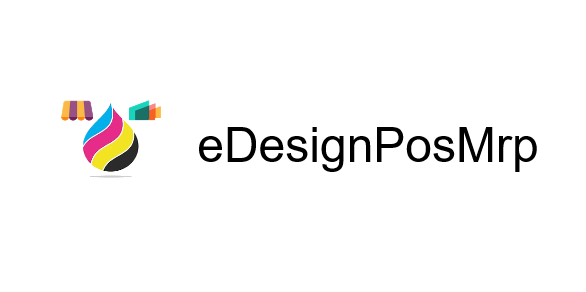
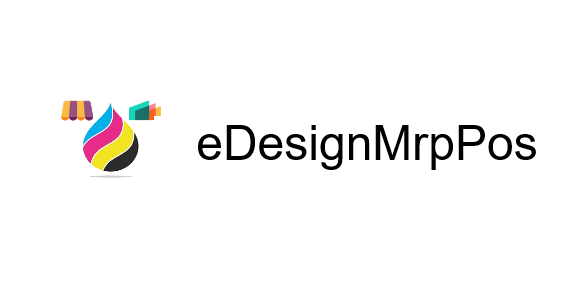
[UPD] README

Changed region(s): [[0.3379, 0.4315, 0.9215, 0.5856]]

diff --git a/e_design_mrp_pos/static/description/index.html b/e_design_mrp_pos/static/description/index.html
@@ -3,11 +3,11 @@
         <div class="row align-items-center p-3">
             <div class="col-md-8">
                 <h1 class="display-4 fw-bold mb-3 text-white">
-                    <img src="icon.png" alt="ePosMrpDesign" class="img-fluid  rounded-circle me-3 bg-light" style="width: 60px; height: 60px; background: white; padding: 8px;">
-                    ePosMrpDesign
+                    <img src="icon.png" alt="eDesignMrpPos" class="img-fluid  rounded-circle me-3 bg-light" style="width: 60px; height: 60px; background: white; padding: 8px;">
+                    eDesignMrpPos
                 </h1>
                 <p class="lead mb-4">
-                    Ensures design information flows automatically from POS sales to manufacturing orders, giving production teams visual references.
+                    Ensures design information flows automatically from POS sales to manufacturing orders, giving production teams visual references. Depends on external e-POS-MRP module
                 </p>
             </div>
             <div class="col-md-4 text-center">
@@ -28,16 +28,7 @@
                         <div class="card p-0">
                             <div class="row p-3">
                                 <h3 class="card-title fw-bold">POS, MRP & Design Integration</h3>
-                                <p class="card-text small text-muted">Link designs directly from the product template view.</p>
-                            </div>
-                            <hr class="mt-0"/>
-                            <div class="row justify-content-start p-1">
-                                <div class="col-xl-6">
-                                    <img src="assets/screenshots/1.png" class="card-img-top" alt="Product Design Link">
-                                </div>
-                                <div class="col-xl-6">
-                                    <img src="assets/screenshots/1-1.png" class="card-img-top" alt="Design App">
-                                </div>
+                                <p class="card-text small text-muted">Link designs directly from the POS order line to manofacturing view.</p>
                             </div>
                         </div>
                     </div>
@@ -88,7 +79,7 @@
 
 <footer class="bg-primary py-4 mt-5">
     <div class="container text-center">
-        <a href="https://github.com/acevedoesteban999/eAddons" class="btn btn-light btn-sm me-2">
+        <a href="https://github.com/acevedoesteban999/eAddons/e_design_mrp_pos" class="btn btn-light btn-sm me-2">
             Documantation
         </a>
     </div>

diff --git a/e_design_mrp_pos/__manifest__.py b/e_design_mrp_pos/__manifest__.py
@@ -5,15 +5,13 @@
     'summary': """Integration POS-MRP with eDesign""",
     'description':"""
                     It allows you to view the designs of the product 
-                    to be manufactured in the manufacturing orders.
+                    to be manufactured from POS in the manufacturing orders.
                 """,
     'author': 'acevedoesteban999@gmail.com',
-    'website': 'https://github.com/acevedoesteban999/eAddons/blob/18.0/e_design_pos_mrp',
+    'website': 'https://github.com/acevedoesteban999/eAddons/blob/18.0/e_design_mrp_pos',
     'category': 'Customizations',
     'depends': ['e_design_mrp','e_design_pos','e_pos_mrp'],
-    "data": [
-        
-    ],
+    "data": [ ],
     'images': [
         'static/description/banner.png',
     ],

diff --git a/e_design_mrp_pos/README.md b/e_design_mrp_pos/README.md
@@ -1,15 +1,3 @@
 # ePosMrpDesign
 #### POS, MRP & Design Integration
-This module ensures design information flows automatically from POS sales to manufacturing orders, giving production teams visual references.
-
-**Design displayed on Manufacturing Order**
-![IAMGE](static/description/assets/screenshots/1.png)
-
-![IMAGE](static/description/assets/screenshots/1-1.png)
-
-Selected designs appear directly on manufacturing orders, providing clear visual guidance for production staff.
-
-Features
-- Design Propagation: Automatically transfers selected product designs from POS orders to manufacturing orders
-- Visual Manufacturing Reference: Displays design images and specifications directly on production orders
-- Complete Traceability: Maintains design context throughout the entire sales-to-production chain
+This module ensures design information flows automatically from POS sales to manufacturing orders, giving production teams visual references. Depends on external e-POS-MRP module
